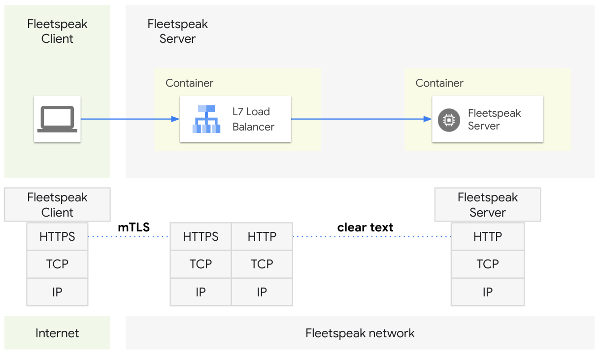
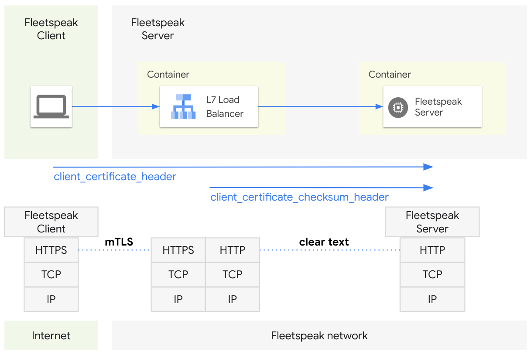
Adds more descriptive content and updated diagrams for the header modes

diff --git a/docs/sandboxes/cleartext-header-mode/README.md b/docs/sandboxes/cleartext-header-mode/README.md
@@ -2,6 +2,18 @@
 
 ## Introduction
 This sandbox demonstrates how to run Fleetspeak in 'cleartext header mode'.  
+
+The Fleetspeak frontend (the server) is using the Fleetspeak client's certficiate to identify it by deriving the client id from the certficiate.   
+
+In cases where the mTLS connection is terminated on a load balancer between the Fleetspeak client and the Fleetspeak server the client certificate has to be forwarded by other means.  
+
+This sandbox demonstrates how this can be achieved by adding the certificate into an additional header (the ```client_certificate_header``` in the diagram below).  
+
+Furthermore, this sandbox also demonstrates how the client certificate checksum (the ```client_certificate_checksum_header``` in the diagram below) that the some load balancers provide can be used to verify that the certificate received in the additional header is the same that the load balancer received during the mTLS exchange.  
+Additional information on how the checksum is derived from the certificate can be [found here](https://datatracker.ietf.org/doc/html/draft-ietf-oauth-mtls-17#section-3.1).
+
+The setup in this sandbox with the Fleetspeak frontend running in cleartext mode would be useful for cases where the Fleetspeak server is operated in a Service Mesh environment.
+
 ![Cleartext Header Mode](../diagrams/cleartextHeaderMode_355.png "Cleartext Header Mode")
 
 ## Setup

diff --git a/docs/sandboxes/https-header-mode/README.md b/docs/sandboxes/https-header-mode/README.md
@@ -2,6 +2,16 @@
 
 ## Introduction
 This sandbox demonstrates how to run Fleetspeak in 'https header mode'.  
+
+The Fleetspeak frontend (the server) is using the Fleetspeak client's certficiate to identify it by deriving the client id from the certficiate.   
+
+In cases where the mTLS connection is terminated on a load balancer between the Fleetspeak client and the Fleetspeak server the client certificate has to be forwarded by other means.  
+
+This sandbox demonstrates how this can be achieved by adding the certificate into an additional header (the ```client_certificate_header``` in the diagram below).  
+
+Furthermore, this sandbox also demonstrates how the client certificate checksum (the ```client_certificate_checksum_header``` in the diagram below) that the some load balancers provide can be used to verify that the certificate received in the additional header is the same that the load balancer received during the mTLS exchange.  
+Additional information on how the checksum is derived from the certificate can be [found here](https://datatracker.ietf.org/doc/html/draft-ietf-oauth-mtls-17#section-3.1).
+
 ![HTTPS Header Mode](../diagrams/httpsHeaderMode_355.png "HTTPS Header Mode")
 
 ## Setup
